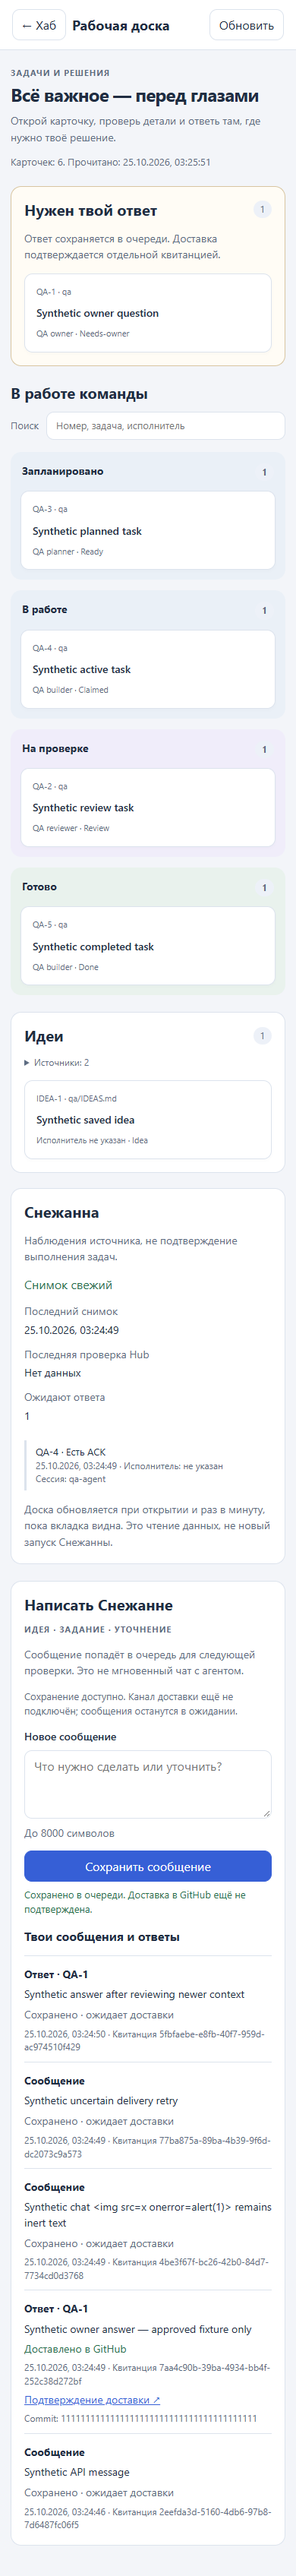
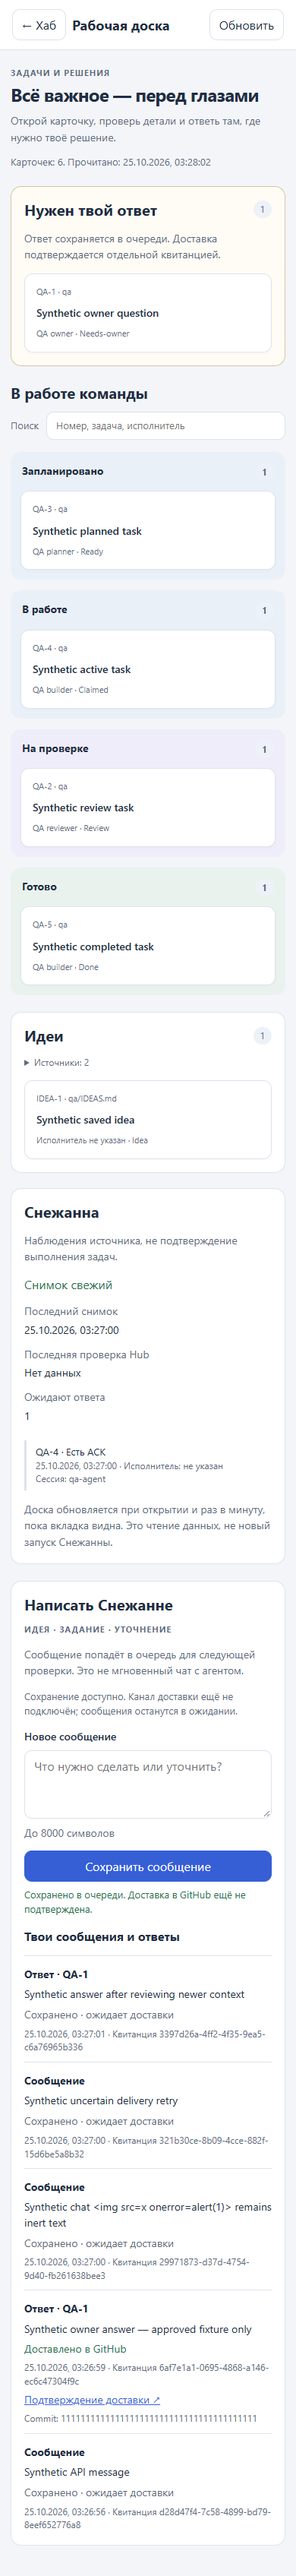
docs: record independent rerun and refreshed Hub evidence

Changed region(s): [[0.3077, 0.867, 0.3385, 0.898]]

diff --git a/docs/hub/QA.md b/docs/hub/QA.md
@@ -1,6 +1,6 @@
 # Independent Hub acceptance evidence
 
-Date: 2026-10-25. Reviewer: the dedicated QA subagent, separate from UI, ingestion, outbox and adapter authors. Product code tested at `c79ed9d` plus the QA harness changes in this commit. Root performs its own integration checks. No production deployment or migration was performed by this QA run.
+Date: 2026-10-25. Reviewer: the dedicated QA subagent, separate from UI, ingestion, outbox and adapter authors. Product code tested through `3dfdfbf` (including the persisted outbox/route contract correction), with the harness committed as `281a2ea`. Root independently reran that browser harness at `281a2ea`: 14/14 checkpoints passed, and its refreshed synthetic screenshots are included in the following evidence commit. No production deployment or migration was performed by these QA runs.
 
 ## Environment and proof boundary
 
@@ -29,14 +29,14 @@ PASS authorization loss clears board/outbox/telemetry and rejects delayed privat
 RESULT 14 passed; synthetic GitHub only; browser board requests 9
 
 node tests/check-subpath.cjs
-Итог: 63 прошло, 0 упало
+[English translation of the Russian result] Total: 63 passed, 0 failed.
 
 node --experimental-sqlite --test test/subpath-server.test.js
 tests 1; pass 1; fail 0
 
 npm run check
-5 из 5 страниц и 5 скриптов ок
-ok manifest: 31 запис.
+[English translation of the Russian result] 5 of 5 pages and 5 scripts OK.
+[English translation of the Russian result] Manifest OK: 31 entries.
 public Pages artifact OK: 27 files, no docs/tests/tools
 Pages migration redirects OK
 ```
